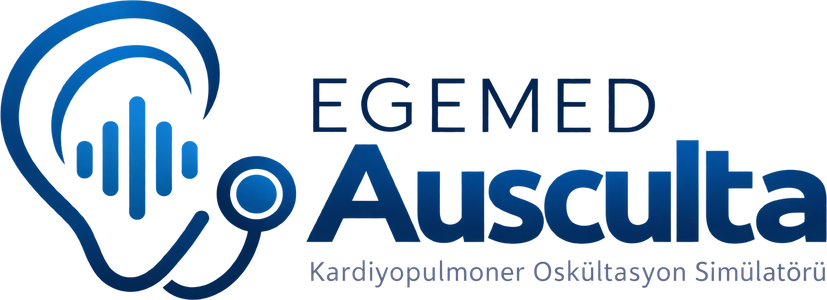
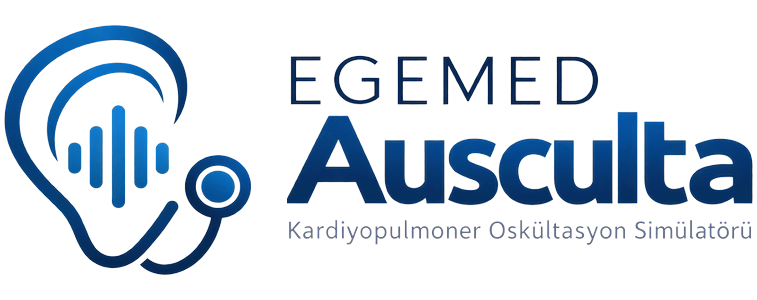
T264: Simülatörler kart logoları ortak tuvalde eşit simge/yazı yüksekliğine normalize

diff --git a/apps/shell/src/SimCard.tsx b/apps/shell/src/SimCard.tsx
@@ -12,9 +12,9 @@ export type SimId = (typeof SIM_IDS)[number];
  * görseli sabit yüksekliğe `object-fit: contain` ile oturur, CLS oluşmaz.
  */
 export const SIM_LOGOS: Record<SimId, { src: string; width: number; height: number }> = {
-  ausculta: { height: 300, src: "/brand/sims/ausculta-horizontal.png", width: 827 },
-  opaca: { height: 300, src: "/brand/sims/opaca-horizontal.png", width: 872 },
-  pulse: { height: 300, src: "/brand/sims/pulse-horizontal.png", width: 688 },
+  ausculta: { height: 300, src: "/brand/sims/ausculta-horizontal.png", width: 757 },
+  opaca: { height: 300, src: "/brand/sims/opaca-horizontal.png", width: 757 },
+  pulse: { height: 300, src: "/brand/sims/pulse-horizontal.png", width: 757 },
 };
 
 /**
